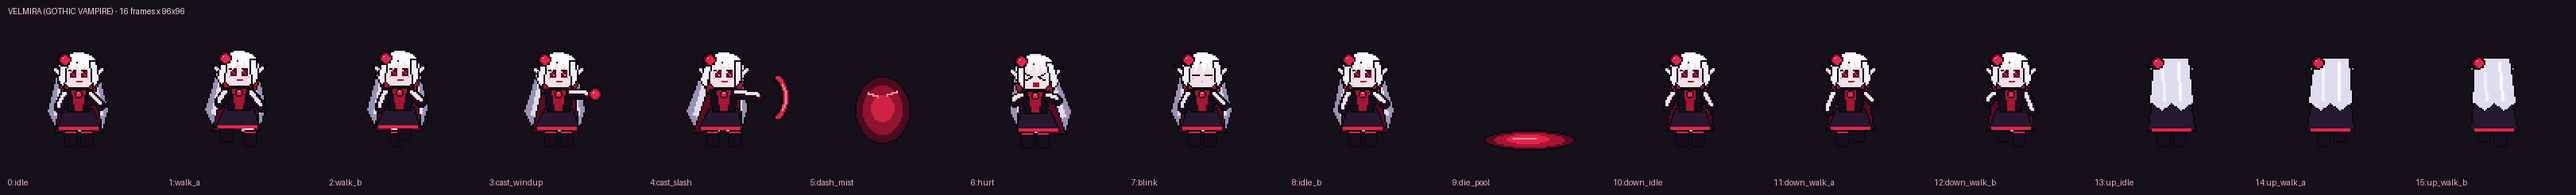
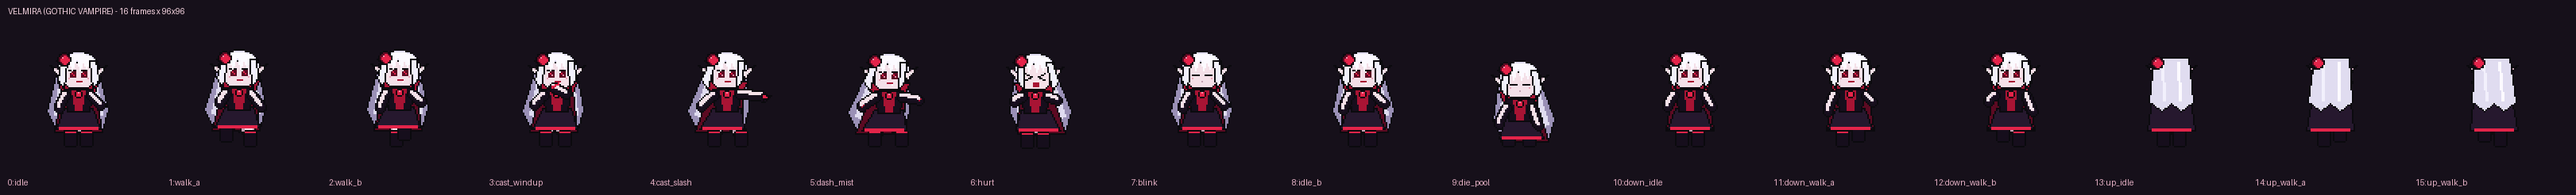
Phase 3: Deduplicate Velmira BloodSplashSlash VFX and replace stray sheet cells

Changed region(s): [[0.1869, 0.2846, 0.3738, 0.7114], [0.5608, 0.313, 0.6231, 0.7683]]

diff --git a/tools/make_velmira_sprites.py b/tools/make_velmira_sprites.py
@@ -183,23 +183,6 @@ def build_velmira_pose(pose: str) -> Image.Image:
     img = Image.new("RGBA", (FRAME, FRAME), (0, 0, 0, 0))
     d = ImageDraw.Draw(img)
 
-    if pose == "die_pool":
-        # Crisp pixel-art crimson vampire blood pool on stone floor (`y ~ 68..80`)!
-        d.ellipse([20, 68, 76, 80], fill=CRIMSON_DEEP, outline=OUTLINE)
-        d.ellipse([26, 70, 70, 78], fill=CRIMSON_MID)
-        d.ellipse([34, 71, 60, 76], fill=CRIMSON_BRIGHT)
-        d.line([(38, 73), (52, 73)], fill=CRIMSON_GLOW, width=1)
-        return img
-
-    if pose == "dash_mist":
-        # Crimson vampire mist silhouette + ruby eyes for Bat-Swarm / death transition!
-        d.ellipse([28, 34, 62, 76], fill=(92, 10, 34, 195), outline=OUTLINE)
-        d.ellipse([33, 40, 57, 70], fill=(168, 20, 52, 215))
-        d.ellipse([38, 46, 52, 62], fill=(228, 36, 74, 230))
-        d.line([(36, 44), (42, 46)], fill=CRIMSON_GLOW, width=2)
-        d.line([(54, 44), (48, 46)], fill=CRIMSON_GLOW, width=2)
-        return img
-
     cx, cy = 44, 50
     sway = 0
     leg_l, leg_r = (-5, 26), (5, 26)
@@ -215,12 +198,23 @@ def build_velmira_pose(pose: str) -> Image.Image:
         leg_l, leg_r = (-2, 27), (3, 23)
         sway = -1
     elif pose == "cast_windup":
-        cx -= 1
+        cx -= 2
+        leg_l, leg_r = (-7, 26), (5, 26)
         sway = -2
     elif pose == "cast_slash":
-        cx += 2
-        leg_l, leg_r = (-7, 26), (7, 26)
-        sway = -4
+        cx += 4
+        leg_l, leg_r = (-8, 26), (9, 26)
+        sway = -5
+    elif pose == "dash_mist":
+        cx += 5
+        cy += 1
+        leg_l, leg_r = (-9, 25), (8, 25)
+        sway = -6
+    elif pose == "die_pool":
+        cx -= 2
+        cy += 6
+        leg_l, leg_r = (-7, 20), (6, 20)
+        sway = 3
     elif pose == "hurt":
         cx -= 4
         cy += 1
@@ -286,30 +280,33 @@ def build_velmira_pose(pose: str) -> Image.Image:
         img,
         cx,
         cy - 18,
-        blink=(pose == "blink"),
+        blink=(pose in ("blink", "die_pool")),
         hurt=(pose == "hurt"),
-        cast_focus=(pose in ("cast_windup", "cast_slash")),
+        cast_focus=(pose in ("cast_windup", "cast_slash", "dash_mist")),
         sway=sway // 2,
     )
 
-    # 5. Gothic flared sleeves & Blood-Magic hands
+    # 5. Gothic flared sleeves & Blood-Magic hands (clean body poses; slash VFX lives in velmira_fx.png)
     if pose in ("idle", "idle_b", "blink", "walk_a", "walk_b"):
         arm_dy = -1 if pose == "idle_b" else (2 if pose == "walk_a" else (-1 if pose == "walk_b" else 0))
         pill_limb(img, cx - 8, cy - 4, cx - 12, cy + 4 - arm_dy, 2, DRESS_DARK, DRESS_MID, SKIN)
         pill_limb(img, cx + 8, cy - 4, cx + 14, cy + 2 + arm_dy, 2, DRESS_DARK, DRESS_MID, SKIN)
     elif pose == "cast_windup":
-        # Gathers a glowing ruby blood orb in front of her palm!
-        pill_limb(img, cx + 8, cy - 5, cx + 18, cy - 4, 2, DRESS_DARK, CRIMSON_MID, SKIN)
-        ox, oy = cx + 23, cy - 5
-        d.ellipse([ox - 4, oy - 4, ox + 4, oy + 4], fill=CRIMSON_MID, outline=OUTLINE)
-        d.ellipse([ox - 2, oy - 2, ox + 2, oy + 2], fill=CRIMSON_BRIGHT)
-        put(img, ox - 1, oy - 1, CRIMSON_GLOW)
+        # Coils lead claw arm back across chest to strike (no floating orb).
+        pill_limb(img, cx - 8, cy - 4, cx - 14, cy + 2, 2, DRESS_DARK, DRESS_MID, SKIN)
+        pill_limb(img, cx + 6, cy - 5, cx - 2, cy - 9, 2, DRESS_DARK, CRIMSON_MID, SKIN)
+        d.line([(cx - 3, cy - 10), (cx + 1, cy - 12)], fill=CRIMSON_BRIGHT, width=2)
     elif pose == "cast_slash":
-        # Sweeps her gothic sleeve forward with a crisp crimson blood-claw arc!
-        pill_limb(img, cx + 8, cy - 5, cx + 22, cy - 3, 2, DRESS_DARK, CRIMSON_MID, SKIN)
-        d.arc([cx + 12, cy - 20, cx + 40, cy + 14], -58, 58, fill=OUTLINE, width=5)
-        d.arc([cx + 12, cy - 20, cx + 40, cy + 14], -54, 54, fill=CRIMSON_BRIGHT, width=3)
-        d.arc([cx + 13, cy - 18, cx + 39, cy + 12], -36, 36, fill=CRIMSON_GLOW, width=1)
+        # Full forward crimson-claw slash follow-through (no floating orb or duplicate baked arc).
+        pill_limb(img, cx - 8, cy - 4, cx - 16, cy + 3, 2, DRESS_DARK, DRESS_MID, SKIN)
+        pill_limb(img, cx + 8, cy - 5, cx + 23, cy - 3, 2, DRESS_DARK, CRIMSON_MID, SKIN)
+        d.polygon([(cx + 22, cy - 5), (cx + 28, cy - 4), (cx + 23, cy - 1)], fill=CRIMSON_BRIGHT, outline=OUTLINE)
+    elif pose == "dash_mist":
+        pill_limb(img, cx - 8, cy - 4, cx - 17, cy + 2, 2, DRESS_DARK, CRIMSON_MID, SKIN)
+        pill_limb(img, cx + 8, cy - 4, cx + 19, cy - 2, 2, DRESS_DARK, CRIMSON_MID, SKIN)
+    elif pose == "die_pool":
+        pill_limb(img, cx - 8, cy - 2, cx - 13, cy + 8, 2, DRESS_DARK, DRESS_MID, SKIN)
+        pill_limb(img, cx + 8, cy - 2, cx + 12, cy + 9, 2, DRESS_DARK, DRESS_MID, SKIN)
     elif pose == "hurt":
         pill_limb(img, cx - 8, cy - 4, cx - 13, cy - 1, 2, DRESS_DARK, DRESS_MID, SKIN)
         pill_limb(img, cx + 8, cy - 4, cx + 14, cy - 2, 2, DRESS_DARK, DRESS_MID, SKIN)
